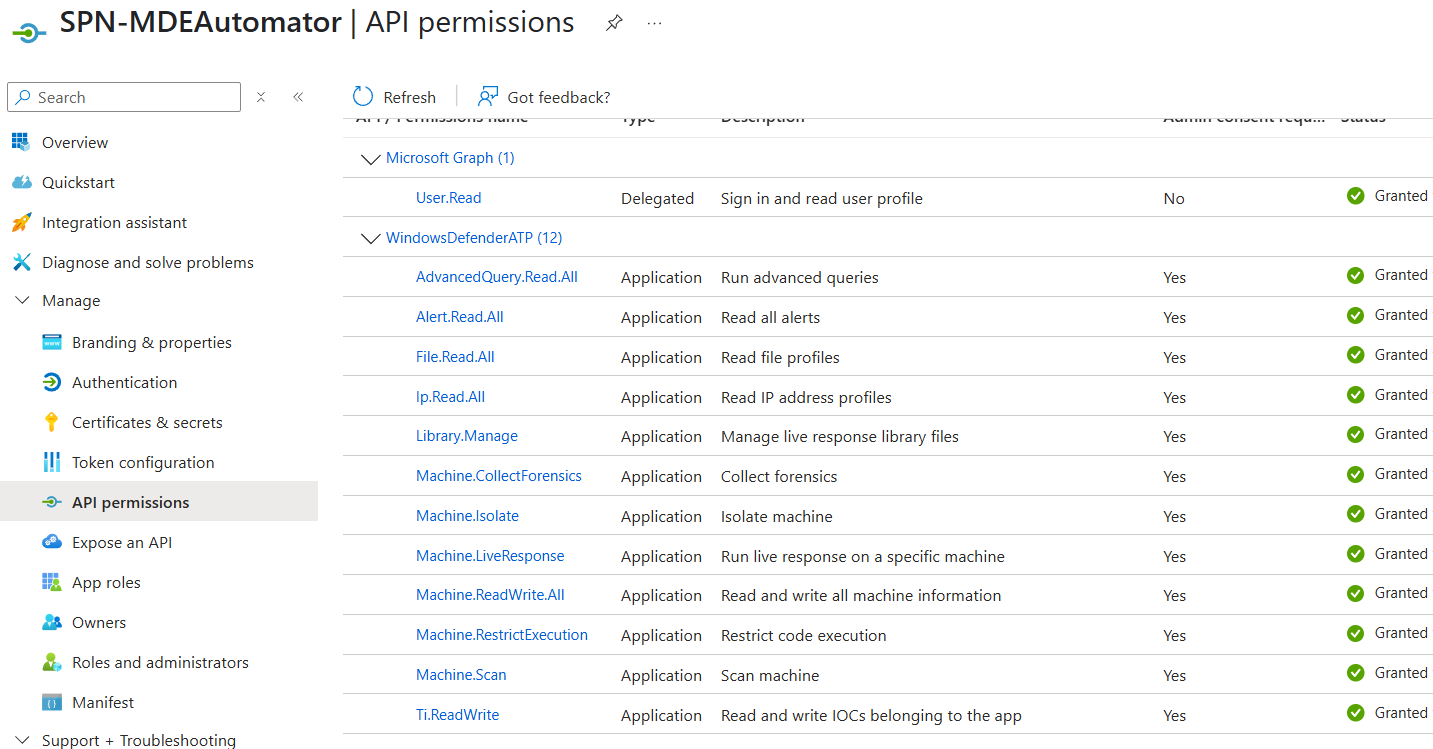
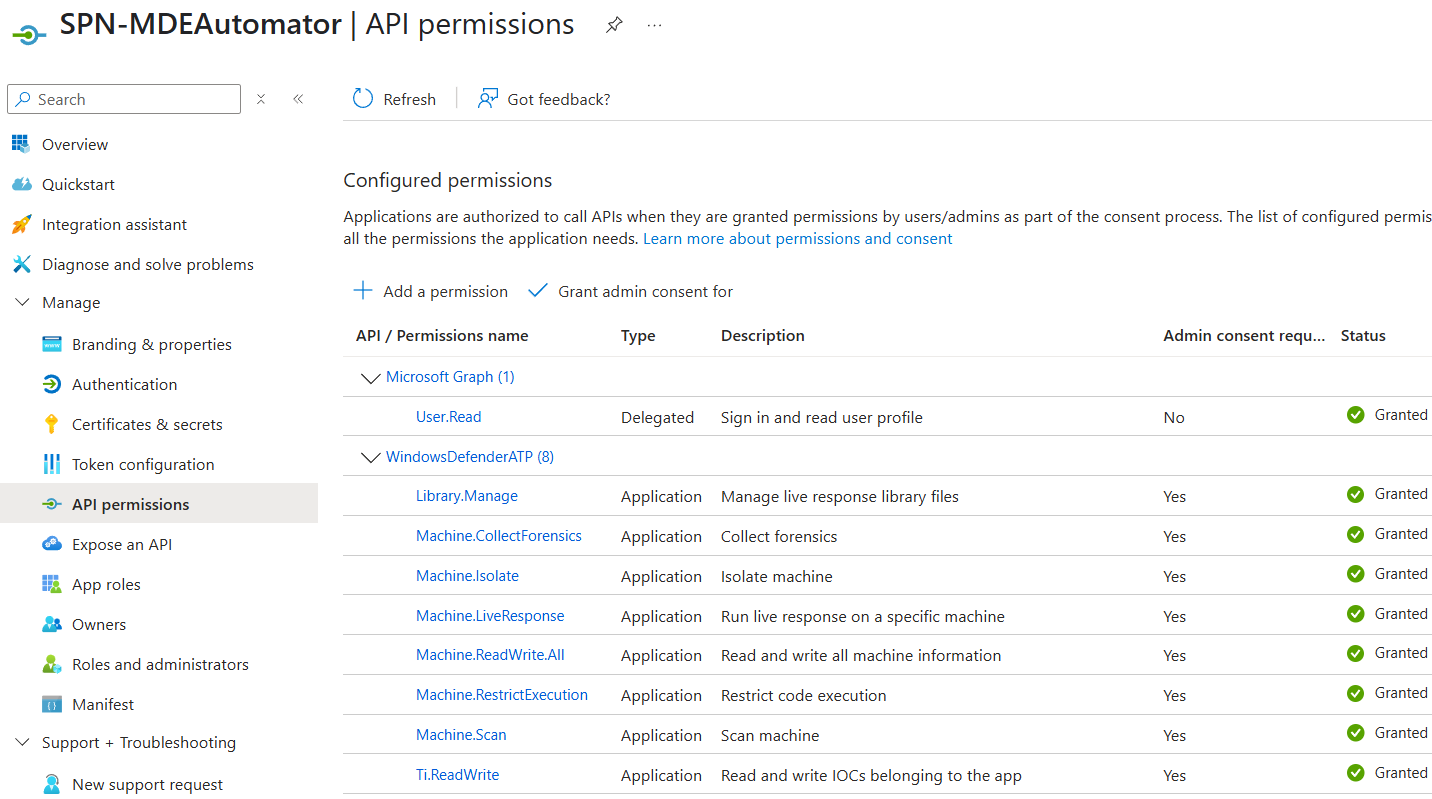
perm update

diff --git a/README.md b/README.md
@@ -49,10 +49,6 @@ MDEAutomator Estimated Monthly Azure Cost: ~$180 USD
 
    Required WindowsDefenderATP API Permissions:
 
-   - AdvancedQuery.Read.All
-   - Alert.Read.All
-   - File.Read.All
-   - Ip.Read.All
    - Library.Manage
    - Machine.CollectForensics
    - Machine.Isolate
